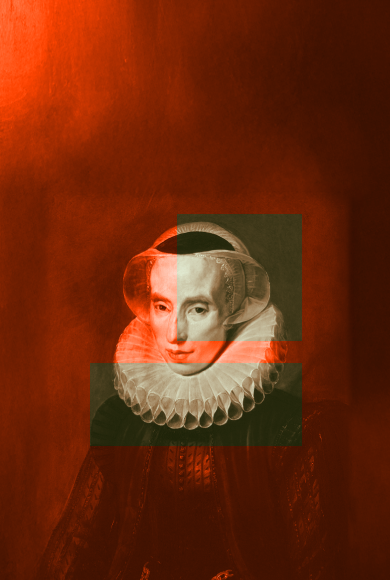
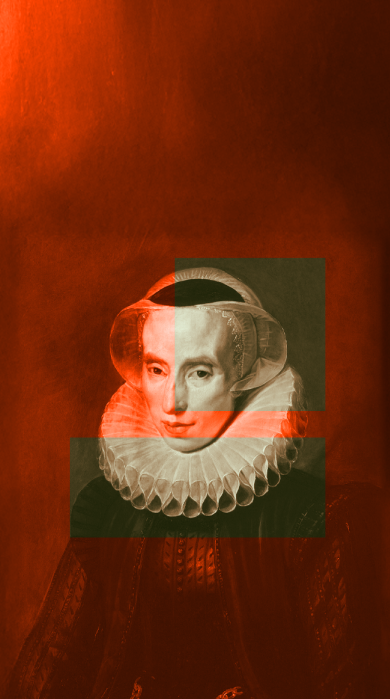
html en css

diff --git a/index.html b/index.html
@@ -56,17 +56,14 @@
     <section id="heroimg">
       <h2 class="heroimg__title">Laat je inspireren door <br> <span class="elegant keyword__whitebg">Christoffel
           Plantijn</span></h2>
-      <img class="heroimg__photo1" src="./src/assets/img/png/heroimg_photo1_mobile.png" alt="Plantijn" width="332px"
-        height="70px">
-      <img class="heroimg__photo2" src="./src/assets/img/png/heroimg_photo2_mobile.png" alt="Plantijn" width="172px"
-        height="70px">
+      <img class="heroimg__photo1" src="./src/assets/img/png/heroimg_photo1_mobile.png" alt="Plantijn" >
+      <img class="heroimg__photo2" src="./src/assets/img/png/heroimg_photo2_mobile.png" alt="Plantijn">
       <div class="heroimg__text1 lineh__big">
         <p>Een pionier die met <span class="keyword__whitebg">passie</span> de kracht van het
           gedrukte woord ontketende</p>
       </div>
       <p class="heroimg__text2 keyword__whitebg">Verken zijn verhaal</p>
-      <img class="heroimg__photo3" src="./src/assets/img/png/heroimg_photo3_mobile.png" alt="Plantijn" width="261px"
-        height="70px">
+      <img class="heroimg__photo3" src="./src/assets/img/png/heroimg_photo3_mobile.png" alt="Plantijn">
     </section>
     <section id="section1">
       <h2 class="section1__title">Plantijn</h2>
@@ -76,12 +73,13 @@
         kracht in zijn passie voor boeken. Als <span class="keyword__darkbg">boekbinder</span> leerde hij precisie en
         perfectie, wat de basis vormde voor zijn
         toekomstige succes in de drukkunst.</p>
-      <p class="section1__text2 lineh__big">Ondanks tegenslagen bleef Plantijn gedreven. Met <span
+      <div class="section1__text2">
+      <p class="lineh__big">Ondanks tegenslagen bleef Plantijn gedreven. Met <span
           class="keyword__whitebg">passie
           en doorzettingsvermogen</span> bouwde hij een nalatenschap op die de
         kracht van het geschreven woord voor altijd veranderde.</p>
-      <img class="section1__img" src="./src/assets/img/png/plantin_tornface.png" alt="Plantijn" width="360px"
-        height="auto">
+      </div>
+      <img class="section1__img" src="./src/assets/img/png/plantin_mobile.png" alt="Plantijn">
     </section>
     <section id="section2">
       <h2 class="hidden">Uitgeverij</h2>
@@ -136,28 +134,36 @@
     </section>
     <section id="section6">
       <h2 class="hidden">passer</h2>
-      <img class="section6__img" src="" alt="">
-      <img class="section6__img" src="" alt="">
-      <img class="section6__img" src="" alt="">
-      <img class="section6__img" src="" alt="">
-      <p class="section6__text1 lineh__big">Het portret van Christoffel Plantin toont een passer, <span
-          class="keyword__whitebg">symbool voor balans en vooruitgang</span>. Eén poot staat voor zijn
-        kernwaarden: geloof, vakmanschap en toewijding. De andere reikt naar groei en innovatie.</p>
-      <p class="section6__text2 lineh__big">Dit <span class="keyword__whitebg">evenwicht</span> tussen traditie en
-        vernieuwing
-        vormde de basis voor zijn blijvende succes.</p>
-      <button class="section6__button">Click the objects</button>
+      <div class="section6__img">
+        <img class="passer"  src="./src/assets/img/png/passer_mobile.png" alt="Passer">
+        <img class="globe" src="./src/assets/img/png/globe_mobile.png" alt="Wereldbol">
+        <div class="beerAndHourglass">
+        <img class="beer" src="./src/assets/img/png/beer_mobile.png" alt="Bier">
+        <img class="hourglass" src="./src/assets/img/png/hourglass_mobile.png" alt="Zandloper">
+        </div>
+      </div>
+      <div class="section6__text">
+        <p class="section6__text1 lineh__big">Het portret van Christoffel Plantin toont een passer, <span
+            class="keyword__whitebg">symbool voor balans en vooruitgang</span>. Eén poot staat voor zijn
+          kernwaarden: geloof, vakmanschap en toewijding. De andere reikt naar groei en innovatie.</p>
+        <p class="section6__text2 lineh__big">Dit <span class="keyword__whitebg">evenwicht</span> tussen traditie en
+          vernieuwing
+          vormde de basis voor zijn blijvende succes.</p>
+        <button class="section6__button">Click the objects</button>
+      </div>
     </section>
     <section id="section7">
       <h2 class="section7__title lineh__big">Christoffel Plantin’s grootste triomf was: <span
           class="section7__title-2">de meertalige Biblia Regia</span></h2>
       <img class="section7__photo" src="./src/assets/img/png/biblia_mobile.png" alt="Biblia Regia">
-      <p class="section7__text1 lineh__big">Een acht-delig meesterwerk in vijf talen, bedoeld om <span
-          class="keyword__whitebg">koning Filips II</span> te imponeren. Met twaalf luxe exemplaren op
-        perkament verwierf hij internationale faam.</p>
-      <p class="section7__text2 lineh__big">Als beloning kreeg hij een <span class="keyword__whitebg">lucratieve
-          licentie</span> voor religieuze boeken, waarmee hij zijn status als visionair uitgever
-        bevestigde.</p>
+      <div class="section7__text">
+        <p class="section7__text1 lineh__big">Een acht-delig meesterwerk in vijf talen, bedoeld om <span
+            class="keyword__whitebg">koning Filips II</span> te imponeren. Met twaalf luxe exemplaren op
+          perkament verwierf hij internationale faam.</p>
+        <p class="section7__text2 lineh__big">Als beloning kreeg hij een <span class="keyword__whitebg">lucratieve
+            licentie</span> voor religieuze boeken, waarmee hij zijn status als visionair uitgever
+          bevestigde.</p>
+      </div>
     </section>
     <section id="section8">
       <h2 class="hidden">huis der liefde</h2>
@@ -170,9 +176,24 @@
         bewees dat visie en samenwerking onmisbaar zijn voor grote ambities.</p>
       <img class="section8__photo2" src="./src/assets/img/png/tornmoneynote_2.png" alt="gescheurd geldbiljet">
     </section>
+    <section id="section9">
+      <h2 class="section8__title">oude generatie</h2>
+      <img class="section8__image" src="./src/assets/img/png/oldgeneration.png" alt="Plantijn">
+      <p class="section8__text">Plantins drukkerij bleef generaties in de familie en groeide uit tot een symbool van vakmanschap en innovatie. Dankzij
+      hun gezamenlijke toewijding werd zijn werk een blijvende erfenis.</p>
+      <p class="section8__info">Kom de nieuwe generatie te weten door te swipen!</p>
+    </section>
   </main>
   <footer>
-
+    <img class="footer__img" src="./src/assets/img/png/logo_small.png" alt="logo museum">
+    <div class="newsletter">
+      <p class="footer__text">Benieuwd naar het volgende verhaal?</p>
+      <button class="footer__button">schrijf je in op de nieuwsbrief</button>
+    </div>
+    <div class="museum">
+      <p class="footer__text">Wil je meer ontdekken over het museum?</p>
+      <button class="footer__button">ga naar website van museum</button>
+    </div>
   </footer>
   <script type="module" src="/src/main.js"></script>
 </body>

diff --git a/src/style.css b/src/style.css
@@ -42,8 +42,13 @@ body {
   max-width: 100%;
 }
 
+img {
+  width: 100%;
+  height: auto;
+}
+
 .lineh__big {
-    line-height: 1.4;
+  line-height: 1.4;
 }
 
 .lineh__small {
@@ -63,11 +68,6 @@ body {
 .elegant {
   font-family: Gwendolyn;
   font-size: var(--fs-xxl);
-}
-
-.elegantBig {
-  font-family: Gwendolyn;
-  font-size: 6rem;
 }
 
 .elegantSmall {
@@ -115,7 +115,7 @@ body {
   grid-row: 3;
   display: flex;
   align-items: center;
-  padding: var(--s1);
+  padding-left: var(--s1);
 }
 
 .heroimg__text2 {
@@ -152,7 +152,7 @@ body {
   color: var(--white);
   display: grid;
   grid-template-columns: auto;
-  grid-template-rows: auto auto;
+  grid-template-rows: 1fr auto;
 }
 
 .section1__title {
@@ -162,7 +162,12 @@ body {
   grid-row: 1;
   grid-column: 1;
   margin-left: 3.5rem;
-  margin-top: -0.75rem;
+  margin-top: -0.5rem;
+}
+
+.elegantBig {
+  font-family: Gwendolyn;
+  font-size: 6rem;
 }
 
 .section1__text1,
@@ -173,12 +178,28 @@ body {
 .section1__text1 {
   grid-column: 1;
   grid-row: 1;
+  margin-bottom: -5rem;
 }
 
 .section1__text2,
 .section1__img {
   grid-column: 1;
   grid-row: 2;
+  display: flex;
+  justify-content: center;
+  align-items: center;
+}
+
+.section1__img {
+  z-index: 1;
+  margin-bottom: -9rem;
+}
+
+.section1__text2 {
+  z-index: 2;
+  color: var(--black);
+  transform: rotate(-13deg);
+  margin-top: 4rem;
 }
 
 #section2 {
@@ -230,7 +251,7 @@ body {
 .section3__info {
   background-color: var(--beige);
   padding: var(--s1);
-  margin-left: var(--s3);
+  margin-left: var(--s4);
 }
 
 .info__button {
@@ -241,10 +262,19 @@ body {
   margin-top: var(--s1);
 }
 
+#section4 {
+  background-image: url(./assets/img/png/daughter_mobile.png);
+  background-position: center center;
+  background-repeat: no-repeat;
+  background-size: auto;
+  padding-bottom: 25rem;
+  margin-top: var(--s1);
+}
+
 .section4__text1,
 .section4__text2 {
   color: var(--white);
-  padding: var(--s_1) var(--s3);
+  padding: var(--s1);
 }
 
 .section5__text1,
@@ -261,30 +291,108 @@ body {
 }
 
 #section6 {
-  display: grid;
-  grid-template-columns: 2fr 3fr;
-  grid-template-rows: 4fr 2fr 2fr;
+  display: flex;
+  flex-direction: row;
 }
 
 .section6__img {
-  grid-column: 1;
-  grid-row: 1/span 3;
+  display: flex;
+  flex-direction: column;
+}
+
+.beerAndHourglass {
+  display: flex;
+  flex-direction: row;
+}
+
+.globe {
+  transform: rotate(-11deg);
+}
+
+.section6__text {
+  display: flex;
+  flex-direction: column;
+  /* width: 30rem; */
 }
 
 .section6__text1 {
+  padding: var(--s1);
+}
+
+.section6__text2 {
+  padding: var(--s1);
+}
+
+.section6__button {
+  text-decoration: none;
+  text-transform: uppercase;
+  font-weight: bold;
+  padding: var(--s1);
+  margin-left: var(--s1);
+  border: none;
+  background-color: transparent;
+  background-image: url("./assets/img/png/tornpaper_orange.png");
+  background-repeat: no-repeat;
+  background-position: center center;
+  background-size: auto;
+}
+
+#section7 {
+  display: grid;
+  grid-template-columns: auto auto;
+  grid-template-rows: auto auto;
+}
+
+.section7__title {
+  grid-column: 2;
+  grid-row: 1;
+  padding-left: var(--s3);
+}
+
+.section7__title-2 {
+  color: var(--orange);
+  font-weight: lighter;
+  text-transform: uppercase;
+}
+
+.section7__photo {
+  grid-column: 1;
+  grid-row: 2;
+}
+
+.section7__text {
+  grid-column: 2;
+  grid-row: 2;
+  padding-left: var(--s3);
+}
+
+footer {
+  background-color: var(--black);
+  color: var(--white);
+  display: grid;
+  grid-template-columns: 2fr auto;
+  grid-template-rows: auto auto;
+}
+
+.footer__img {
+  grid-column: 1;
+  grid-row: 1/span 2;
+}
+
+.newsletter {
   grid-column: 2;
   grid-row: 1;
 }
 
-.section6__text2 {
+.museum {
   grid-column: 2;
   grid-row: 2;
 }
 
-.section6__button {
-  grid-column: 2;
-  grid-row: 3;
-  text-decoration: none;
+.footer__button {
+  border: none;
+  background-color: var(--orange);
+  color: var(--white);
+  padding: var(--s_1);
   text-transform: uppercase;
-  font-weight: bold;
 }
